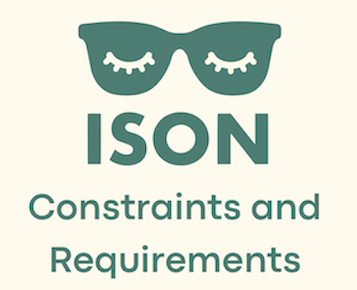
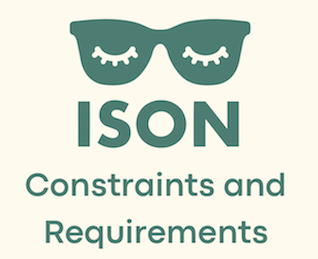
changed opening image and added another and fixed dropdown menu

diff --git a/index.html b/index.html
@@ -18,17 +18,17 @@
 
 <body>
   <nav id="desktop-nav">
-    <font size = 15><div class="logo"> Welcome to Ison</div></font>
+    <font size = 10><div class="logo">Welcome</div></font>
     <div>
       <ul class="nav-links">
-        <li><a href="#subsystems">Subsystems</a></li>
-        <li><a href="#theteamclick">The Team</a></li>
+        <li><a href="#theteamclick">Team</a></li>
+        <li><a href="#thesubsystemsclick">Subsystems</a></li>
         <li><a href="#documents">Documents</a></li>
       </ul>
     </div>
   </nav>
   <nav id="hamburger-nav">
-    <font size = "15"><div class="logo"> Welcome to Ison</div></font>
+    <font size = "10"><div class="logo">Welcome</div></font>
     <div class="hamburger-menu">
       <div class="hamburger-icon" onclick="toggleMenu()">
         <span></span>
@@ -36,16 +36,15 @@
         <span></span>
       </div>
       <div class="menu-links">
-        <li><a href="#subsystems" onclick="toggleMenu()">Subsystems</a></li>
-        <li><a href="#theteamclick" onclick="toggleMenu()">The Team</a></li>
+        <li><a href="#theteamclick" onclick="toggleMenu()">Team</a></li>
+        <li><a href="#thesubsystemsclick" onclick="toggleMenu()">Subsystems</a></li>
         <li><a href="#documents" onclick="toggleMenu()">Documents</a></li>
       </div>
     </div>
   </nav>
-
   <section id="profile-2">
     <div class="section__pic-container">
-      <center><img src="./leveltwo.png" alt="Level Two Diagram" class="profile-pic"></center>
+      <center><img src="./ison-design.png" alt="Level Two Diagram" class="profile-pic"></center>
     </div>
     <div class="section__text">
       <font size = "5"><p style="color:rgb(85, 126, 128);" class="section__text__p1">Glasses that convert physical text to audio</p></font>
@@ -72,64 +71,72 @@
             <div class="details-container">
               <img src="./lael.png" alt="theteam icon" class="icon">
               <font size="5"><h3>Lael<br>Lum</h3></font>
-              <font size="5"><p style="color:rgb(85, 126, 128);" >Audio Output Lead<br>Bluetooth Support</p></font>
+              <font size="5"><p style="color:rgb(85, 126, 128);" >• Audio Output Lead<br>• Bluetooth Support</p></font>
             </div>
             <div class="details-container">
               <img src="./rayven.png" alt="theteam icon" class="icon">
               <font size="5"><h3>Rayven McMillian</h3></font>
-              <font size="5"><p style="color:rgb(85, 126, 128);" >Power Lead<br>Audio Output Support</p></font>
+              <font size="5"><p style="color:rgb(85, 126, 128);" >• Power Lead<br>• Audio Output Support</p></font>
             </div>
             <div class="details-container"> 
               <img src="./kj.png" alt="theteam icon" class="icon">
               <font size="5"><h3>KJ<br>Butler</h3></font>
-              <font size="5"><p style="color:rgb(85, 126, 128);" >Text-to-Speech Lead<br>Companion App Support</p></font>
+              <font size="5"><p style="color:rgb(85, 126, 128);" >• Text-to-Speech Lead<br>• Companion App Support</p></font>
             </div>
             <div class="details-container">
               <img src="./daniel.png" alt="education icon" class="icon">
               <font size="5"><h3>Daniel Stevens</h3></font>
-              <font size="5"><p style="color:rgb(85, 126, 128);" >Team Leader<br> Bluetooth Lead<br>Power Support</p></font>
+              <font size="5"><p style="color:rgb(85, 126, 128);" >• Team Leader<br>• Bluetooth Lead<br>• Power Support</p></font>
             </div>
             <div class="details-container">
               <img src="./leah.png" alt="education icon" class="icon">
               <font size="5"><h3>Leah Vaughan</h3></font>
-              <font size="5"><p style="color:rgb(85, 126, 128);" >Project Manager<br>Companion App Lead<br>Text-to-Speech Support</p></font>
+              <font size="5"><p style="color:rgb(85, 126, 128);" >• Project Manager<br>• Companion App Lead<br>• Text-to-Speech Support</p></font>
                   </div>
           </section>
-        <img src="./arrow.png" alt="Arrow icon" class="icon arrow" onclick="location.href='./#documents'">
+        <img src="./arrow.png" alt="Arrow icon" class="icon arrow" onclick="location.href='./#thesubsystemsclick'">
       </section>
     </section>
+
 <section id="subsystems">
-  <font size = "5"><p class="section__text__p1"><center style="color:rgb(85, 126, 128);"><br>Look into each of the</center></p></font>
-  <center><font size = "8"><h1 class="title">Subsystems</h1></font></center>
-  <section id="profile">
-    <div class="details-container">
-      <img src="./power.png" alt="subsystems icon" class="icon">
-      <font size="5"><h3>Power</h3></font>
-      <p style="color:rgb(85, 126, 128);" >The power supply setup of Ison glasses is pivotal to its functionality. A rechargeable LiPo battery powers Ison’s chosen modules. Charging a 3.7-V lithium battery to 5 V typically involves utilizing a charging module.</p>
+    <section id="thesubsystemsclick">
+      <div class="section__pic-container">
+        <font size="5"><p class="section__text__p1"><center style="color:rgb(85, 126, 128);">Dive into</center></p></font>
+        <h1 class="title">Ison's Overview</h1>
+        <center><img src="./leveltwo.png" alt="Level Two Diagram" class="profile-pic"></center>
+      </div>
+    <font size = "5"><p class="section__text__p1"><center style="color:rgb(85, 126, 128);"><br>Look into each of the</center></p></font>
+    <center><font size = "8"><h1 class="title">Subsystems</h1></font></center>
+    <section id="profile">
+      <div class="details-container">
+        <img src="./power.png" alt="subsystems icon" class="icon">
+        <font size="5"><h3>Power</h3></font>
+        <p style="color:rgb(85, 126, 128);" >The power supply setup of Ison glasses is pivotal to its functionality. A rechargeable LiPo battery powers Ison’s chosen modules. Charging a 3.7-V lithium battery to 5 V typically involves utilizing a charging module.</p>
+      </div>
+      <div class="details-container">
+        <img src="./text-to-speech.png" alt="subsystems icon" class="icon">
+        <font size="5"><h3>Text-to-Speech</h3></font>
+        <p style="color:rgb(85, 126, 128);" >This subsystem consists of hardware and software to accomplish the text-to-speech conversion task. The hardware component is the camera. The software components are the AI model for optical character recognition (OCR) and the text-to-speech algorithm.</p>
+      </div>
+      <div class="details-container">
+        <img src="./bluetooth.png" alt="subsystems icon" class="icon">
+        <font size="5"><h3>Bluetooth</h3></font>
+        <p style="color:rgb(85, 126, 128);" >This subsystem consists of the project's Bluetooth capabilities. It transmits the picture data and receives the audio output file from the user’s smartphone.</p>
+      </div>
+      <div class="details-container">
+        <img src="./companionapp.png" alt="subsystems icon" class="icon">
+        <font size="5"><h3>Companion App</h3></font>
+        <p style="color:rgb(85, 126, 128);" >Ison has a companion app that works as a processor while featuring language selection, volume settings options, and bluetooth setup.</p>
+      </div>
+      <div class="details-container">
+        <img src="./audiooutput.png" alt="subsystems icon" class="icon">
+        <font size="5"><h3>Audio Output</h3></font>
+        <p style="color:rgb(85, 126, 128);" >To output audio for the users of Ison glasses, the team chose bone conduction transducers.</p>
+      </div>
+      </section>
     </div>
-    <div class="details-container">
-      <img src="./text-to-speech.png" alt="subsystems icon" class="icon">
-      <font size="5"><h3>Text-to-Speech</h3></font>
-      <p style="color:rgb(85, 126, 128);" >This subsystem consists of hardware and software to accomplish the text-to-speech conversion task. The hardware component is the camera. The software components are the AI model for optical character recognition (OCR) and the text-to-speech algorithm.</p>
-    </div>
-    <div class="details-container">
-      <img src="./bluetooth.png" alt="subsystems icon" class="icon">
-      <font size="5"><h3>Bluetooth</h3></font>
-      <p style="color:rgb(85, 126, 128);" >This subsystem consists of the project's Bluetooth capabilities. It transmits the picture data and receives the audio output file from the user’s smartphone.</p>
-    </div>
-    <div class="details-container">
-      <img src="./companionapp.png" alt="subsystems icon" class="icon">
-      <font size="5"><h3>Companion App</h3></font>
-      <p style="color:rgb(85, 126, 128);" >Ison has a companion app that works as a processor while featuring language selection and volume settings options.</p>
-    </div>
-    <div class="details-container">
-      <img src="./audiooutput.png" alt="subsystems icon" class="icon">
-      <font size="5"><h3>Audio Output</h3></font>
-      <p style="color:rgb(85, 126, 128);" >To output audio for the users of Ison glasses, the team chose bone conduction transducers.</p>
-    </div>
-    </section>
-  </div>
-  <img src="./arrow.png" alt="Arrow icon" class="icon arrow" onclick="location.href='./#theteamclick'">
+    <img src="./arrow.png" alt="Arrow icon" class="icon arrow" onclick="location.href='./#documents'">
+  </section>
 </section>
 
 
@@ -179,8 +186,8 @@
   <nav>
     <div class="nav-links-container">
       <ul class="nav-links">
-        <li><a href="#subsystems">Subsystems</a></li>
-        <li><a href="#theteamclick">The Team</a></li>
+        <li><a href="#theteamclick">Team</a></li>
+        <li><a href="#thesubsystemsclick">Subsystems</a></li>
         <li><a href="#documents">Documents</a></li>
       </ul>
     </div>

diff --git a/mediaqueries.css b/mediaqueries.css
@@ -4,10 +4,10 @@
         font-size: 5rem;
     }
     #desktop-nav {
-        display: none;
+        display: flex;
     }
     #hamburger-nav {
-        display: flex;
+        display: none;
     }
     #profile,
     #profile-2,
@@ -30,7 +30,7 @@
         margin: 0 5%;
     }
     .section__pic-container {
-        width: 90%;
+        width: 100%;
         height: auto;
     }
     .subsystems-containers {
@@ -42,6 +42,9 @@
         text-align: center;
         height: auto;
     }
+    #documents{
+        margin-top: 15rem;
+    }
 }
 
 @media screen and (max-width: 1200px) {
@@ -51,8 +54,10 @@
     #desktop-nav {
         display: none;
     }
+    
     #hamburger-nav {
         display: flex;
+        z-index: 1;
     }
     #profile,
     #profile-2,
@@ -74,8 +79,9 @@
         margin: 0 5%;
     }
     .section__pic-container {
-        width: 90%;
+        width: 100%;
         height: auto;
+        z-index: 2;
     }
     #experience,
     .experience-details-container {
@@ -89,6 +95,9 @@
         width: fit-content;
         text-align: center;
     }
+    #documents{
+        margin-top: 2rem;
+    }
 }
 
 @media screen and (max-width: 600px) {
@@ -98,9 +107,11 @@
     #desktop-nav {
         display: none;
     }
-    #hamburger-nav {
-        display: flex;
+    
+    #hamburger-nav, .menu-links {
+        z-index: 1;
     }
+
     #profile,
     #profile-2,
     .section-container {
@@ -122,8 +133,9 @@
         margin: 0 5%;
     }
     .section__pic-container {
-        width: 90%;
+        width: 100%;
         height: auto;
+        z-index: 2;
     }
     .subsystems-containers {
         margin-top: 0;
@@ -132,5 +144,8 @@
         margin-top: 2rem;
         width: fit-content;
         text-align: center;
+    }
+    #documents{
+        margin-top: 2rem;
     }
 }

diff --git a/style.css b/style.css
@@ -33,11 +33,11 @@ nav,
 }
 
 .section__pic-container img{
-    width: 90%;
+    width: 100%;
     height: auto;
     margin-right: auto;
     margin-left: auto;
-    padding-left: 11%;
+    padding-left: 0%;
 }
 .about-containers{
     margin-right: auto;
@@ -109,7 +109,7 @@ a:hover {
     position: absolute;
     top: 100%;
     right: 0;
-    background-color: #FFFBED;
+    background-color: rgb(148,89,34);
     width: fit-content;
     max-height: 0;
     overflow: hidden;
@@ -121,7 +121,7 @@ a:hover {
     padding: 10px;
     text-align: center;
     font-size: 1.5rem;
-    color: black;
+    color: #FFFBED;
     text-decoration: none;
     transition: all 0.3 ease-in-out;
 }
@@ -268,6 +268,7 @@ section {
 /* SUBSYSTEMS SECTION */
 #subsystems {
     position: relative;
+    margin-top: 2rem;
 }
 
 .subsystems-containers {
@@ -365,7 +366,7 @@ article.icon {
 }
 
 .documents-title {
-    margin: 1rem;
+    margin: 0rem;
     color: black;
 }
 .about-containers {
